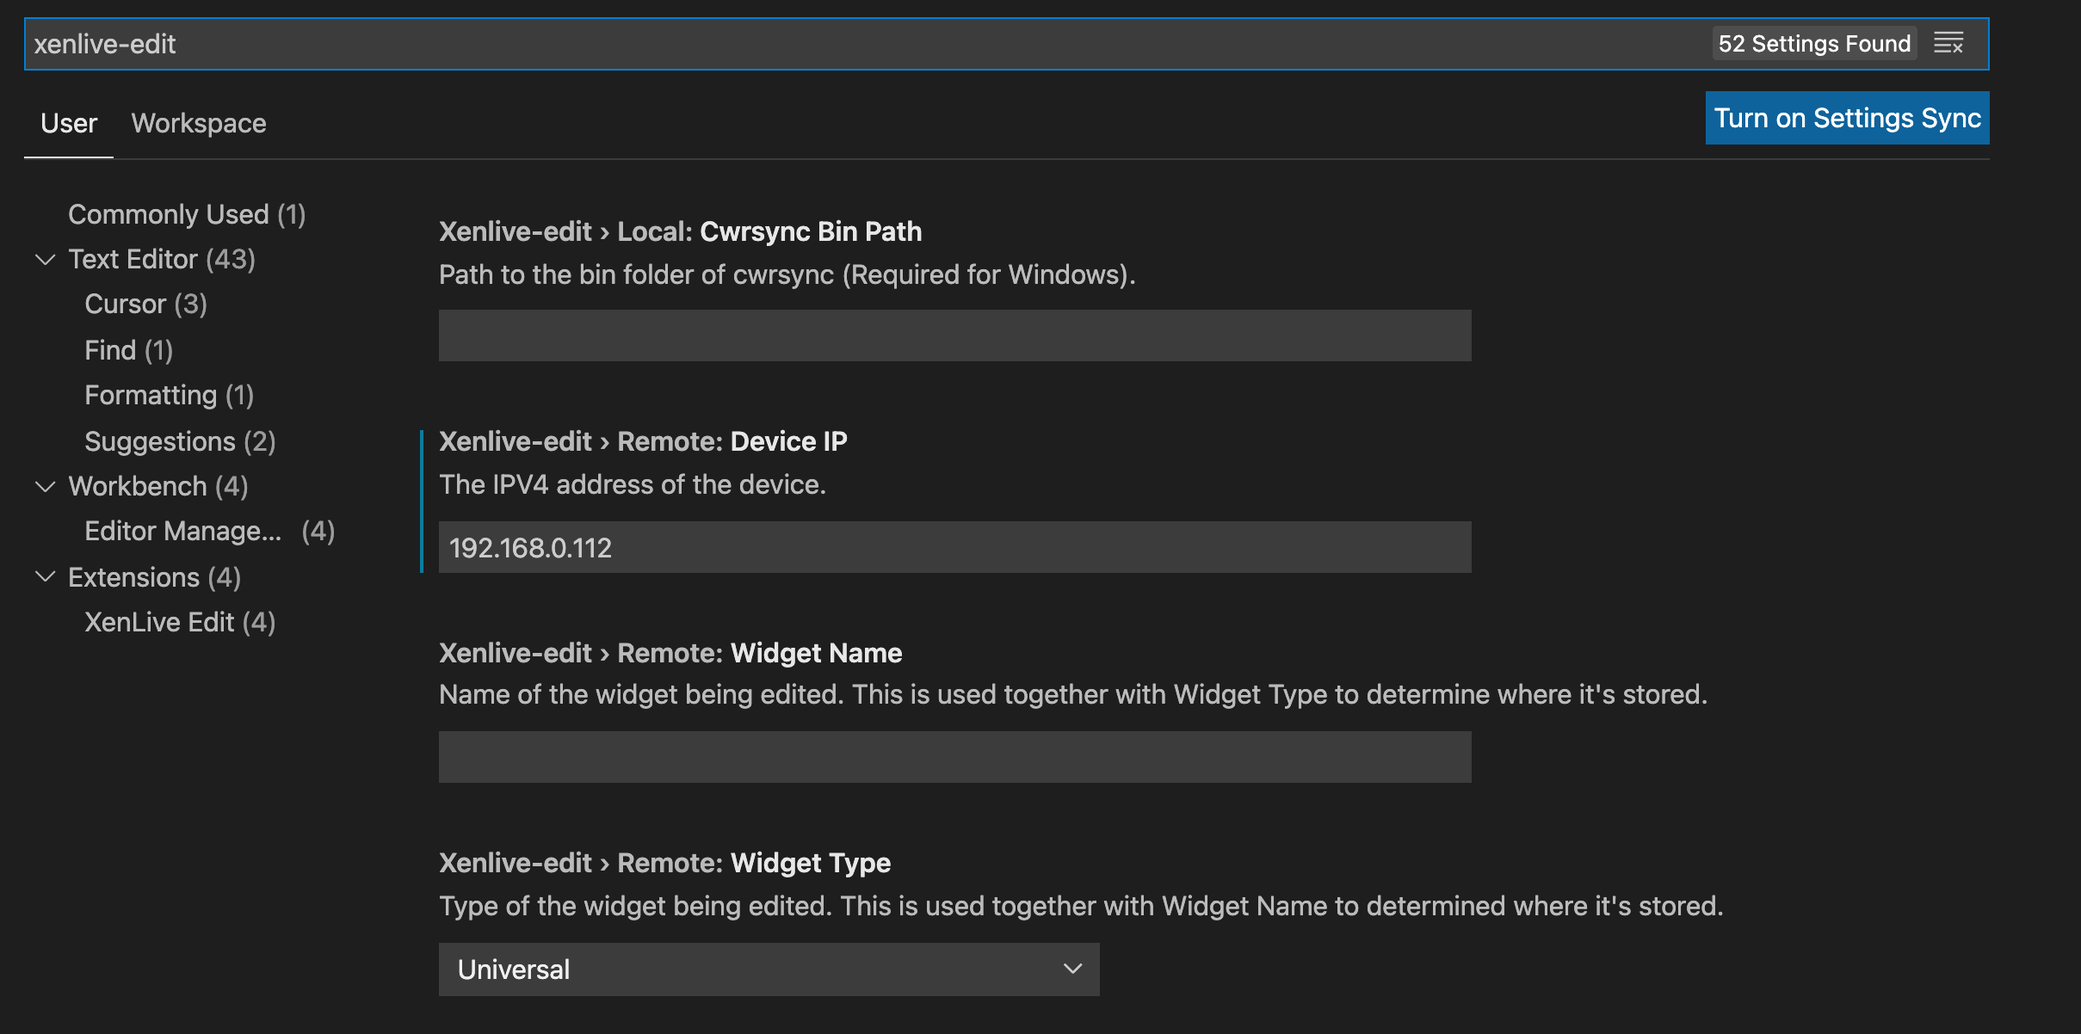
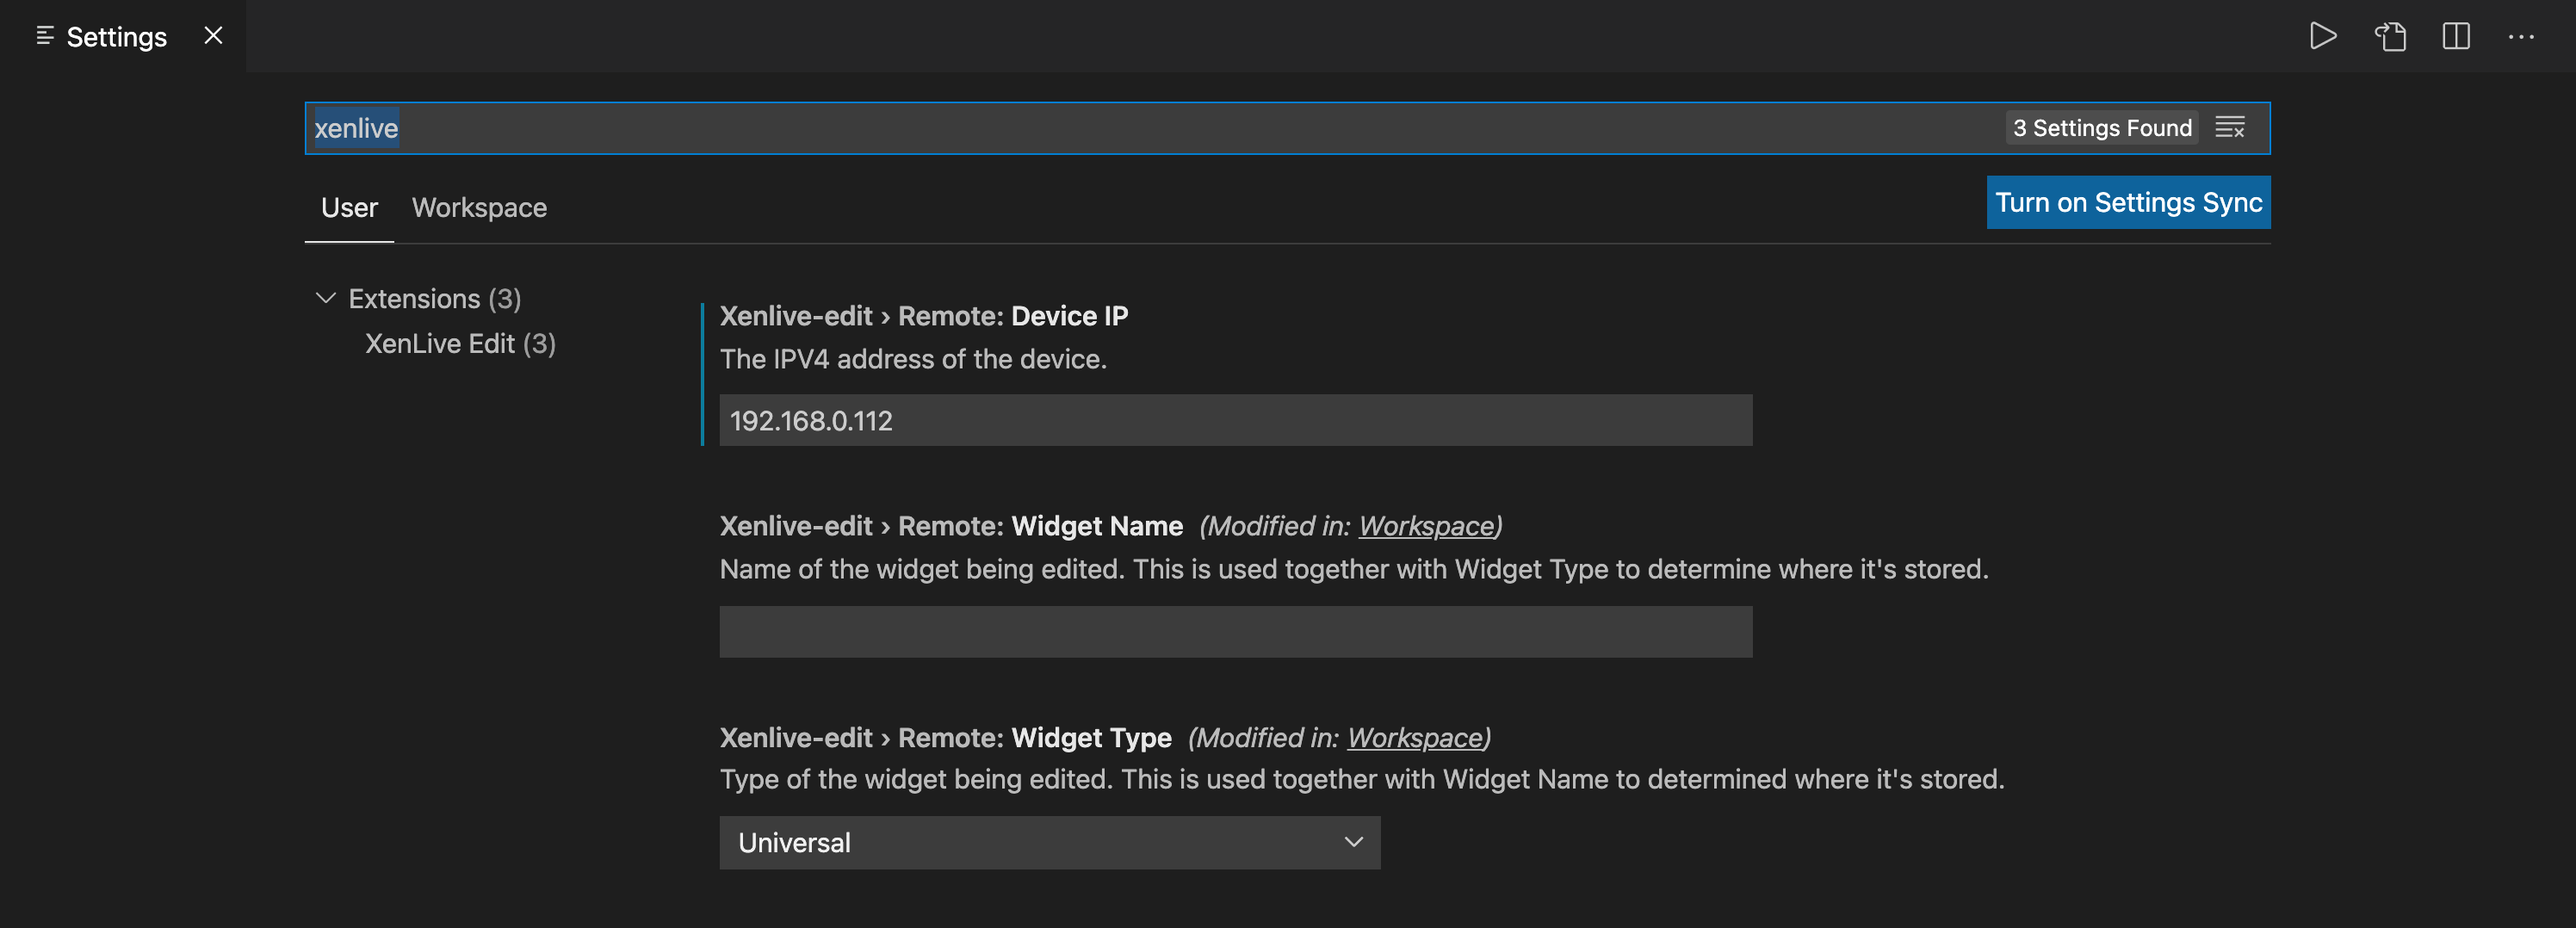
updated readme

Changed region(s): [[0.0, 0.0, 0.9615, 0.9796], [0.031, 0.551, 0.1241, 0.6122], [0.031, 0.1224, 0.062, 0.1531]]

diff --git a/README.md b/README.md
@@ -14,48 +14,22 @@ XenLive syncs the changes to your device when you save the file.
 # Requirements
 
 * Only XenHTML v2 and above are supported.
-* `rsync` should be installed on this machine. See **Installing rsync** below for more details.
-* SSH Public Key Authentication is required between your pc and iOS device.
 * Install the `XenLive` tweak from [My Repo](https://zerui18.github.io/zx02/) on your iOS device to start editing!
-
-# Installing rsync
-For macOS & Linux users, you can install `rsync` with your package manager of choice. Ensure that you have the latest version installed: `rsync --version` should give at least version 3.x.x.
-
-For Windows users, you will need to [download cwrsync](https://itefix.net/dl/free-software/cwrsync_6.2.1_x64_free.zip), unzip the contents somewhere and set the `xenlive-edit.remote.cwrsyncBinPath` to point to the bin directory.
-
-# SSH Public Key Authentication
-To allow XenLive-Edit to sync files to your device without needing the SSH password, public key authentication is required.
-
-First, run:
-
-* `ssh-keygen` to generate a private/public key pair on your PC. When asked for a path to save the key, just press enter to use the default one. Do not set a passphrase for the key. (Windows 7 users please read below)
-
-For **macOS & Linux** users:
-
-* `ssh-copy-id root@ideviceip` to copy the public key onto your iOS device.
-* You can test if setup is successful by ssh-ing into your iOS device as `root` without a password.
-
-For **Windows** users:
-* Copy the public key, aka `~/.ssh/id_rsa.pub`, onto your iOS device through any preferred means. Windows 10 users can run `scp ~/.ssh/id_rsa.pub root@ideviceip:/tmp/id_rsa.pub`.
-* SSH into you iOS device as `root` and run `cat /tmp/id_rsa.pub >> ~/.ssh/authorized_keys` to add your pc's public key to authorized keys.
-
-**Note: Windows 10 has built-in ssh, use THE Command Prompt and THE built in scp/ssh.**
-
-**Note: Windows 7 comes with no built-in ssh capability. Use the `ssh-keygen` binary found in cwrsync/bin.**
 
 # Extension Settings
 
+To find the settings for this extension, open VSCode's settings page and search for `xenlive`, you can then choose to edit them in `User` or `Workspace` scope. Read more about VSCode settings from the [official documentation](https://code.visualstudio.com/docs/getstarted/settings).
+
 ![Settings Screenshot](ss_settings.png)
-<center><i>xenlive-edit Settings</i></center>
+<i>xenlive-edit Settings</i>
 
 <br>
 The following 4 settings are required for XenLive-Edit:
 
-**The following 2 settings are recommended to be set at `User` level, which is shared among all workspaces.**
+**The following 1 setting is recommended to be set at `User` level, which is shared among all workspaces.**
 * `xenlive-edit.remote.deviceIP`: The IPv4 address through which this computer can access your phone.
-* `xenlive-edit.local.cwrsyncBinPath`: Path to the bin folder of cwrsync **(Required only for Windows)**.
 
-**The following 2 settings should only be set at `Workspace` level, as they are unique for each workspace.**
+**The following 2 settings should only be set at `Workspace` level, as they should be unique for each workspace.**
 * `xenlive-edit.remote.widgetName`: The name of the widget being edited.
 * `xenlive-edit.remote.widgetType`: The type of the widget being edited.
 
@@ -72,7 +46,12 @@ TBD
 Please report issues at XenLive's [Bug Tracker Repo](https://github.com/Zerui18/XenLive-Issues-Tracker).
 
 # Release Notes
-* *1.0.0* First release!
+
+Version | Notes
+--- | ---
+*1.0.0* | First release!
+*1.0.1* | Bug fixes.
+*1.1.0-beta1* | Remake, switched from rsync to use custom system.
 
 <br></br>
 <a id="cn"></a>
@@ -91,48 +70,20 @@ XenLive会在启用的文件夹内任意文件保存时与iOS端进行同步。
 # 需求
 
 * 仅支持 XenHTML 版本2及更高
-* 本机需装有 `rsync` ，安装指示见下方 **安装 rsync** 。
-* 本机与iOS设备间需设置SSH公钥验证，指示见下方 **设置 SSH 公钥验证**。
 * iOS设备需装有[我的Cydia源](https://zerui18.github.io/zx02/)中的 `XenLive` 插件。
-
-# 安装 rsync
-macOS 及 Linux 用户可使用任意前段软件包管理器（如： apt、homebrew）安装 `rsync` 。请注意 `rsync --version` 需大于 3.x.x 。
-
-Windows 用户请下载 [cwrsync](https://itefix.net/dl/free-software/cwrsync_6.2.1_x64_free.zip) 。将压缩包解压到任意一个永久的路径，并将该包的 bin 文件夹的完整路径填入设置中的 `xenlive-edit.remote.cwrsyncBinPath` 。
-
-# 设置 SSH 公钥验证
-XenLive Edit需要能够在以ssh访问iOS设备时无需密码。
-
-设置完成后试着以 `root` ssh进入iOS设备，若没有提示输入密码则设置成功。
-
-在本机首先执行：
-
-* `ssh-keygen` 来创建一对ssh密钥及公钥。当提示输入时直接按回车键，留空所有选项。（Windows 7用户请见下方）
-
-**macOS & Linux** 用户:
-
-* 请执行 `ssh-copy-id root@设备IP` 将刚生成的公钥直接安装到iOS设备上。
-
-**Windows** 用户:
-
-* 用任意方法将刚生成的 `id_rsa.pub` 拷贝至iOS设备路径 `/tmp/id_rsa.pub` 。Windows 10推荐执行 `scp ~/.ssh/id_rsa.pub root@设备IP:/tmp/id_rsa.pub` 。
-* 以 `root` ssh进入iOS设备并执行 `cat /tmp/id_rsa.pub >> ~/.ssh/authorized_keys` 将公钥加入信任列。
-
-**注意：Windows 10 自带ssh, 请不要使用 PuTTY 等第三方ssh。**
-
-**注意：Windows 7没有自带的ssh功能。请用之前下载的 cwrsync/bin 中的 `ssh-keygen`。**
 
 # 插件设置
 
+在VSCode设置页面中搜索 `xenlive` 以显示本插件的3个设置项。每个设置项均可在 `用户` 或 `工作区` 等级设置。`用户` 等级设置会应用于所有工作区，而个别 `工作区` 可以覆盖 `用户` 等级的设置。详情可见[官方文档](https://code.visualstudio.com/docs/getstarted/settings)。
+
 ![Settings Screenshot](ss_settings.png)
-<center><i>xenlive-edit 设置页面</i></center>
+<i>xenlive-edit 设置页面</i>
 
 <br>
-使用前请完成以下4项设置：
+使用前请完成以下3项设置：
 
-**推荐在`用户`等级设置以下2条，从而对所有工作区生效**
+**推荐在`用户`等级设置以下1条，从而对所有工作区生效**
 * `xenlive-edit.remote.deviceIP`: iOS设备的IPv4地址。
-* `xenlive-edit.local.cwrsyncBinPath`: cwrsync/bin 文件夹的本地路径。 **(Windows专用)**.
 
 **仅在`工作区`等级设置以下2条。**
 * `xenlive-edit.remote.widgetName`: 此工作区编辑的Widget的名称。
@@ -152,5 +103,8 @@ XenLive Edit需要能够在以ssh访问iOS设备时无需密码。
 
 # 版本日志
 
-* *1.0.0*： 第一版发布
-* *1.0.1* : 优化
+版本 | 记录
+--- | ---
+*1.0.0* | 第一版发布
+*1.0.1* | 优化
+*1.1.0-beta1* | 重制，从rsync转至自制系统
